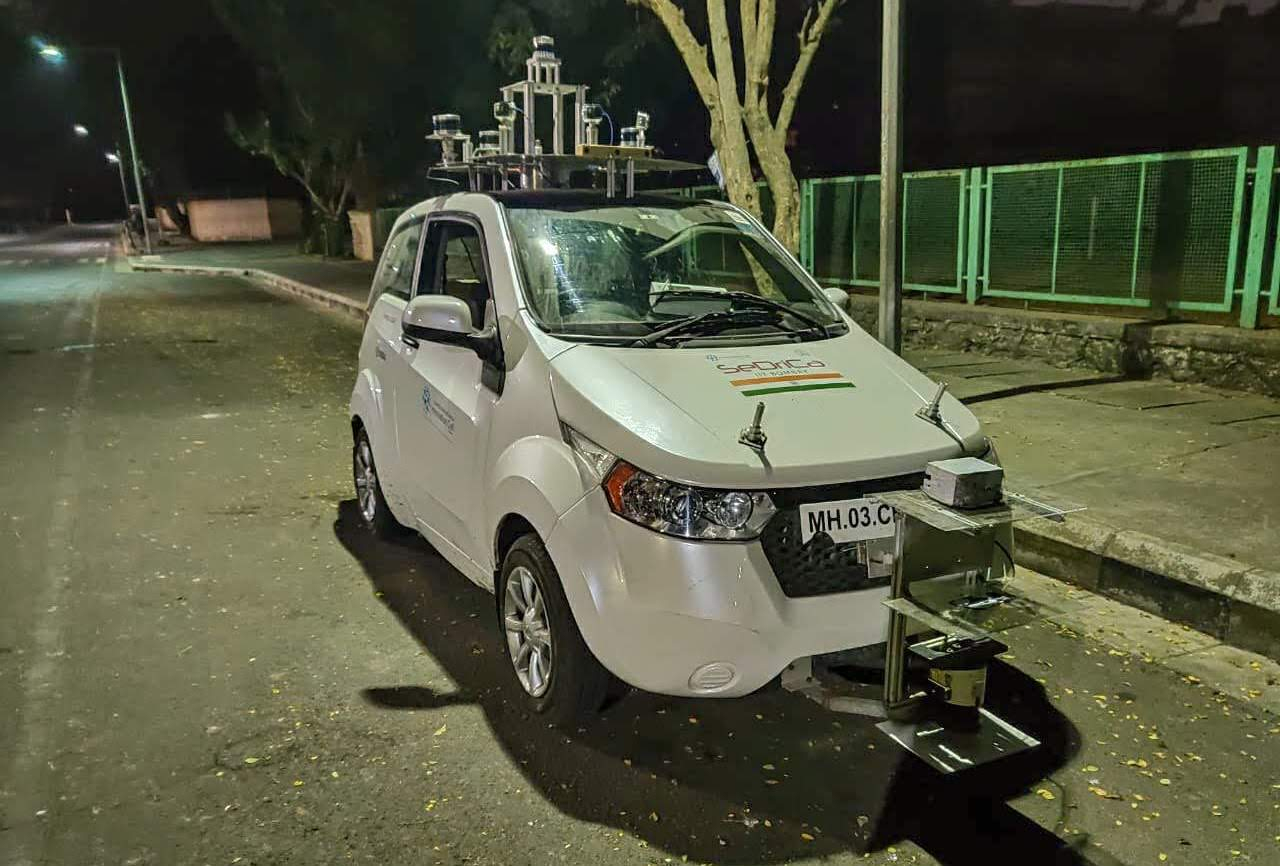
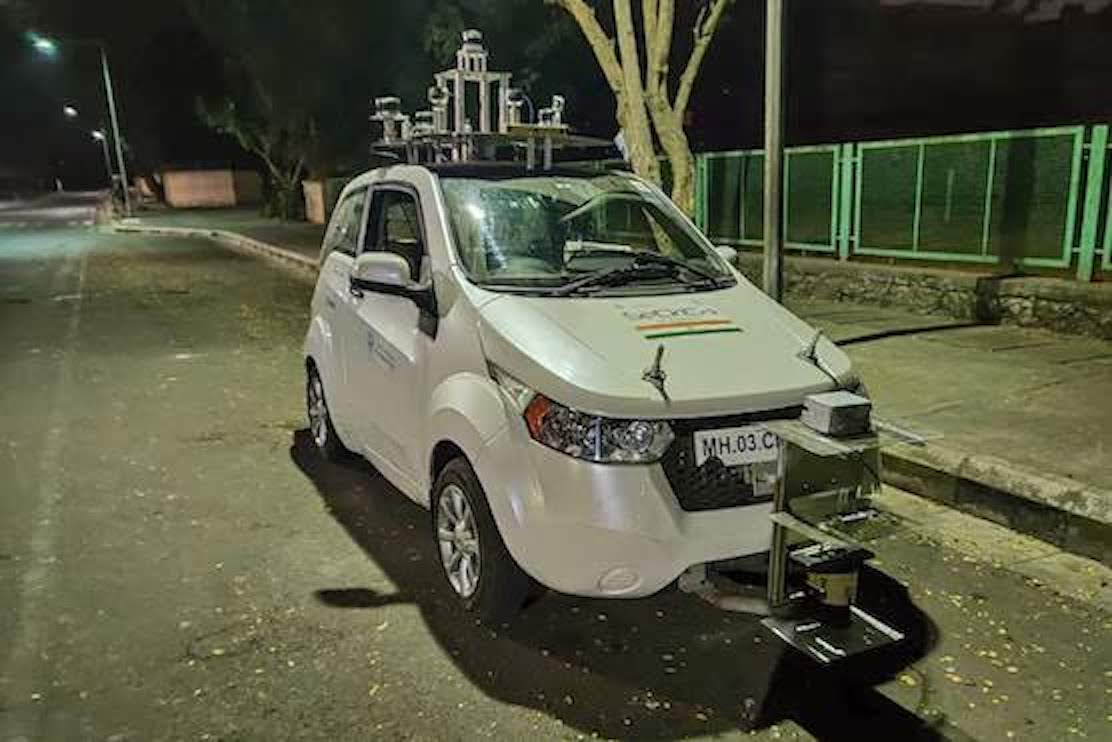
change

diff --git a/index.html b/index.html
@@ -157,12 +157,7 @@
                 Incorporating different subsystems namely ‘Mechatronics’, ‘Avionics','Controls’, ‘Machine Learning’, ‘Localisation’, ‘Path Planning’, and ‘Localisation’, the team emphatically covers every aspect to forge a de rigueur system of autonomous aerial vehicles. We have been working on the development of a multirotor and a fixed-wing aircraft, both of which are capable of autonomous flight.
               </p>
 
-              <div class="col-md-12 subscribe-btn-container">
-                <center>
-                  <br>
-                <a class="subscribe-btn" href="assets/brochures/TeamAeRoVe.pdf">AeRoVe Brochure →</a>
-              </center>
-              </div>
+              
             </div>
 
           </div>
@@ -187,16 +182,24 @@
               </p>
             </div>
 
-            <div class="col-md-12 subscribe-btn-container">
+            
+            </div>
+
+          </div>
+          
+          <div class="row">
+            <div class="col-md-6 subscribe-btn-container">
+              <center>
+                  <br>
+                <a class="subscribe-btn" href="assets/brochures/TeamAeRoVe.pdf">AeRoVe Brochure →</a>
+              </center>
+            </div>
+            <div class="col-md-6 subscribe-btn-container">
               <center>
                 <br>
               <a class="subscribe-btn" href="assets/brochures/TeamSeDriCa.pdf">SeDriCa Brochure →</a>
             </center>
-            </div>
-
           </div>
-
-          
         </div>
       </div>
     </section><!-- End About Section -->
@@ -274,11 +277,11 @@
           </div>
 
           <div class="col-lg-4 col-md-6 portfolio-item filter-current">
-            <a href="sedrica_research.html" class="details-link" title="More Details"><img src="assets/img/portfolio/sedri.jpg" class="img-fluid" alt=""></a>
+            <a href="sedrica_research.html" class="details-link" title="More Details"><img src="assets/img/portfolio/SED.jpg" class="img-fluid" alt=""></a>
             <div class="portfolio-info">
               <h4>SeDriCa Research Project</h4>
               <p>Towards Level 5 Autonomy</p>
-              <a href="assets/img/portfolio/sedri.jpg" data-gallery="portfolioGallery" class="portfolio-lightbox preview-link" title="Web 3"><i class="bi bi-plus"></i></a>
+              <a href="assets/img/portfolio/SED.jpg" data-gallery="portfolioGallery" class="portfolio-lightbox preview-link" title="Web 3"><i class="bi bi-plus"></i></a>
               <a href="sedrica_research.html" class="details-link" title="More Details"><i class="bi bi-link"></i></a>
             </div>
           </div>
@@ -370,52 +373,7 @@
       </div>
     </section><!-- End Team Section -->
 
-    <!-- ======= Team Section ======= -->
-    <!-- <section id="team">
-      <div class="container" data-aos="fade-up">
-        <div class="row">
-          <div class="col-md-12">
-            <h3 class="section-title2">Overall Coordinators</h3>
-            <div class="section-title-divider"></div>
-            </div>
-        </div>
-
-        <div class="row">
-          <div class="col-md-3">
-            
-          </div>
-
-          <div class="col-md-3">
-            <div class="member">
-              <div class="pic"><img src="assets/img/team/aanal.jpg" alt=""></div>
-              <h4>Aanal Sonara</h4>
-              <span>AeRoVe OC</span>
-              <span>+91 9136540029</span>
-              <div class="social">
-                <a href=""><i class="bi bi-linkedin"></i></a>
-              </div>
-            </div>
-          </div>
-
-          <div class="col-md-3">
-            <div class="member">
-              <div class="pic"><img src="assets/img/team/akash.jpg" alt=""></div>
-              <h4>Akash</h4>
-              <span>SeDriCa OC</span>
-              <span>+91 7007294123 +91 9136540029</span>
-              <div class="social">
-                <a href=""><i class="bi bi-linkedin"></i></a>
-              </div>
-            </div>
-          </div>
-
-          <div class="col-md-3">
-            
-          </div>
-
-        </div>
-      </div>
-    </section>End Team Section -->
+    
 
     <!-- ======= Contact Section ======= -->
     <section id="contact">
@@ -430,25 +388,27 @@
         <div class="row justify-content-center">
           <div class="col-lg-5 col-md-5">
             <div class="info">
-              <div>
-                <i class="bi bi-geo-alt"></i>
-                <a href="https://goo.gl/maps/Kya9DCj59KNE2u3A7"><p>UMIC Lab, near Applied Materials Exploration Centre<br> IIT Area, Powai, Mumbai, Maharashtra, <br>400076</p></a>
-              </div>
+            
+                <div>
+                    <i class="bi bi-telephone"></i>
+                    <a href=""><p>Aanal Sonara:  +91 9136540029<br>Akash Verma: +91 7007294123 </p></a>
 
-              <div>
-                <i class="bi bi-envelope"></i>
-                <a href="mailto:innovation.cell.iitb@gmail.com"><p>innovation.cell.iitb@gmail.com</p></a>
-              </div>
-
-              <div>
-                <i class="bi bi-telephone"></i>
-                <a href=""><p>Aanal Sonara:  +91 9136540029<br>Akash Verma: +91 7007294123 </p></a>
-
-              <div class="row">
-                <div class="col-lg-4 col-md-4">
-                  </div>
+                      <div class="row">
+                        <div class="col-lg-4 col-md-4">
+                          </div>
                   
                 </div>
+
+                <div>
+                  <i class="bi bi-envelope"></i>
+                  <a href="mailto:innovation.cell.iitb@gmail.com"><p>innovation.cell.iitb@gmail.com</p></a>
+                </div>
+
+                <div>
+                  <i class="bi bi-geo-alt"></i>
+                  <a href="https://goo.gl/maps/Kya9DCj59KNE2u3A7"><p>UMIC Lab, near Applied Materials Exploration Centre<br> IIT Area, Powai, Mumbai, Maharashtra, <br>400076</p></a>
+                </div>
+
                 <center>
                 <div class="col-lg-4 col-md-4">
                   <div class="row">
